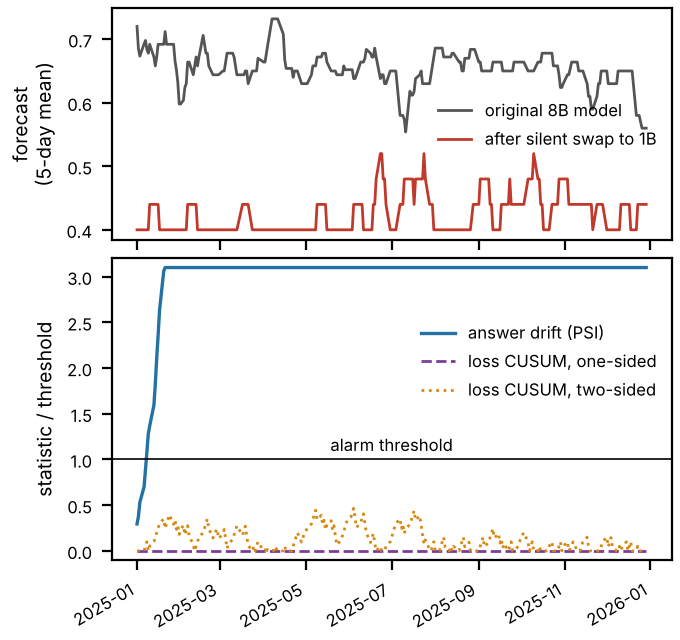
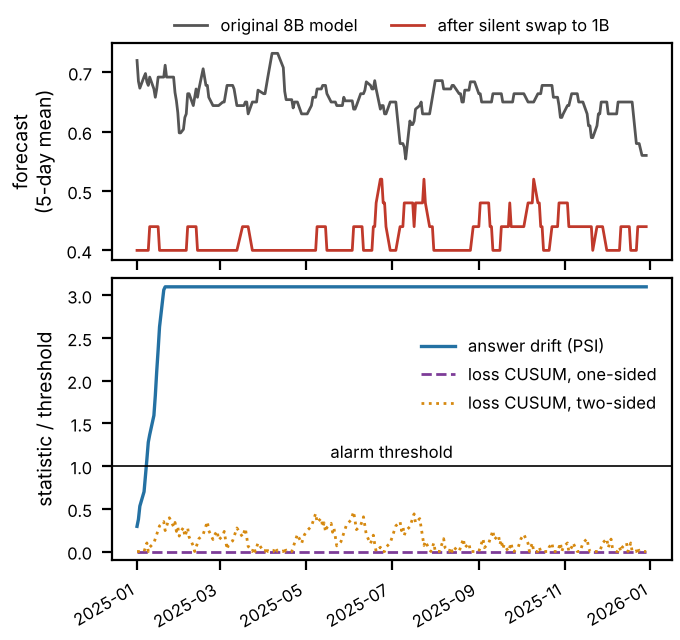
LLM study: move swap-figure legend above the plot

diff --git a/paper/experiments/llm/make_monitor_outputs.py b/paper/experiments/llm/make_monitor_outputs.py
@@ -58,7 +58,7 @@ fig, ax = plt.subplots(2, 1, figsize=(3.4, 3.2), sharex=True, gridspec_kw=dict(h
 d = idx[k]
 ax[0].plot(d, pd.Series(clean.reindex(d).values).rolling(5, min_periods=1).mean(), color='#555', lw=1, label='original 8B model')
 ax[0].plot(d, pd.Series(p.values[k]).rolling(5, min_periods=1).mean(), color='#c0392b', lw=1, label='after silent swap to 1B')
-ax[0].set_ylabel('forecast\n(5-day mean)', fontsize=7); ax[0].legend(fontsize=6, frameon=False, loc='center right'); ax[0].tick_params(labelsize=6)
+ax[0].set_ylabel('forecast\n(5-day mean)', fontsize=7); ax[0].legend(fontsize=6, frameon=False, loc='lower center', bbox_to_anchor=(.5, 1.0), ncol=2, borderaxespad=.1); ax[0].tick_params(labelsize=6)
 ax[1].plot(d, B1, color='#2471a3', lw=1.2, label='answer drift (PSI)')
 ax[1].plot(d, L1, color='#7d3c98', lw=1, ls='--', label='loss CUSUM, one-sided')
 ax[1].plot(d, L2, color='#d68910', lw=1, ls=':', label='loss CUSUM, two-sided')
